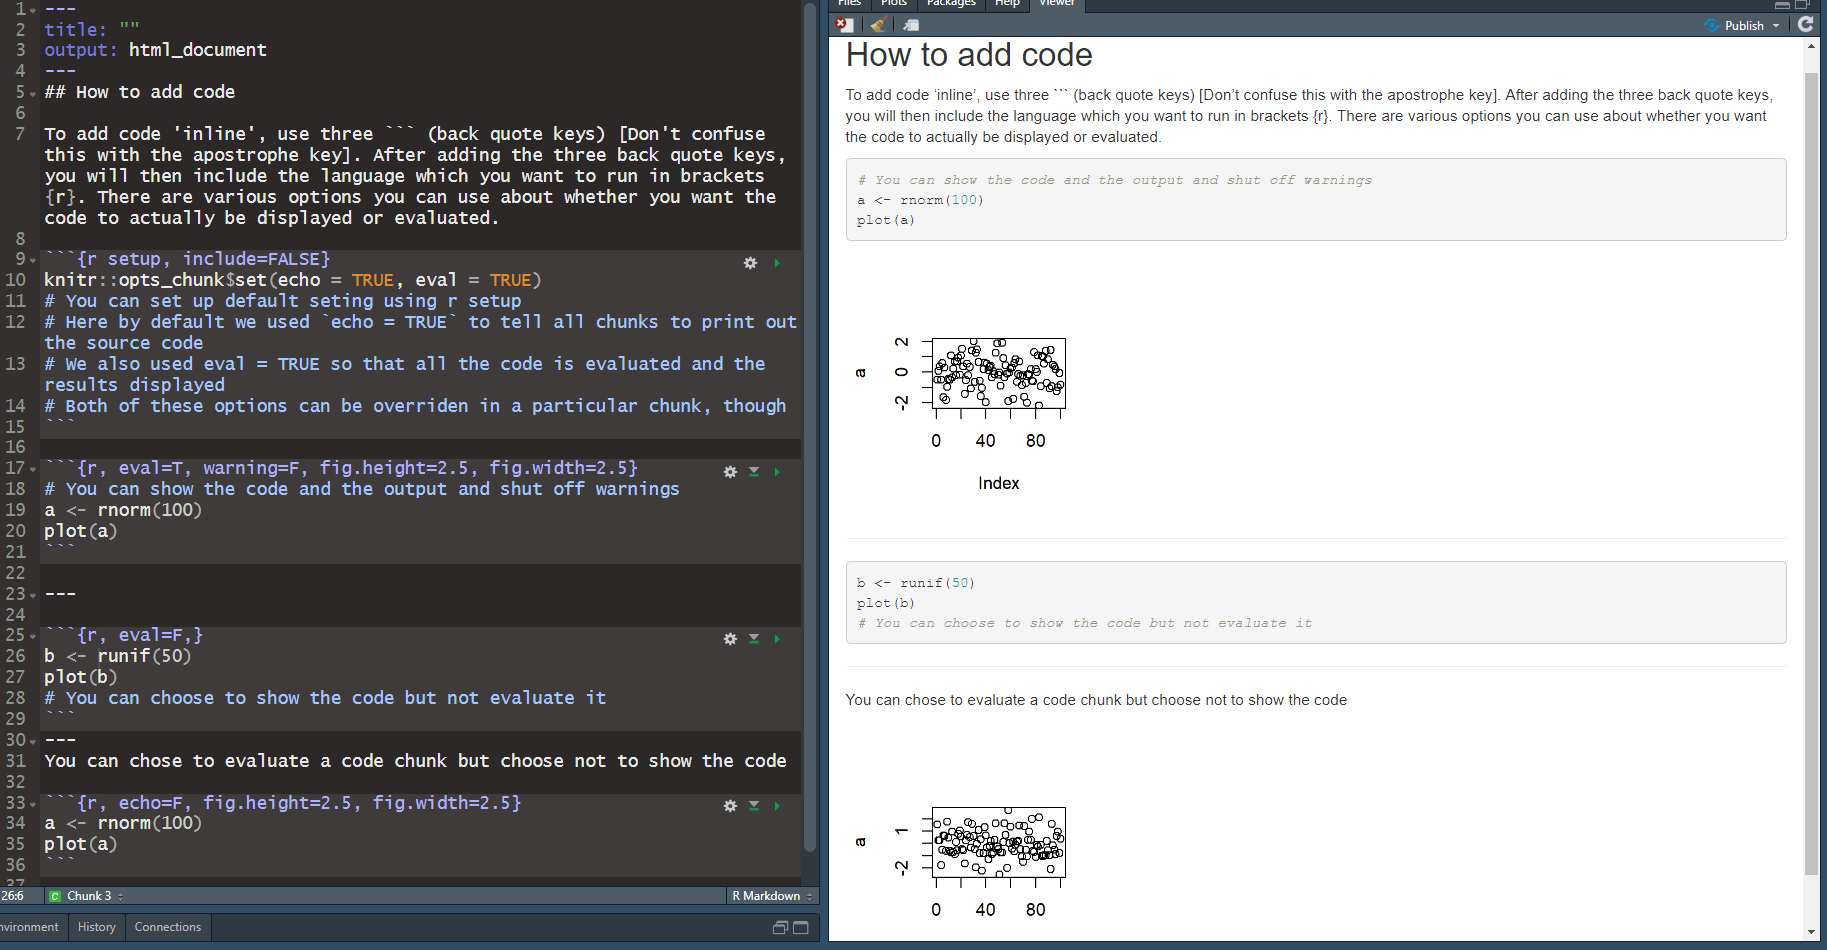
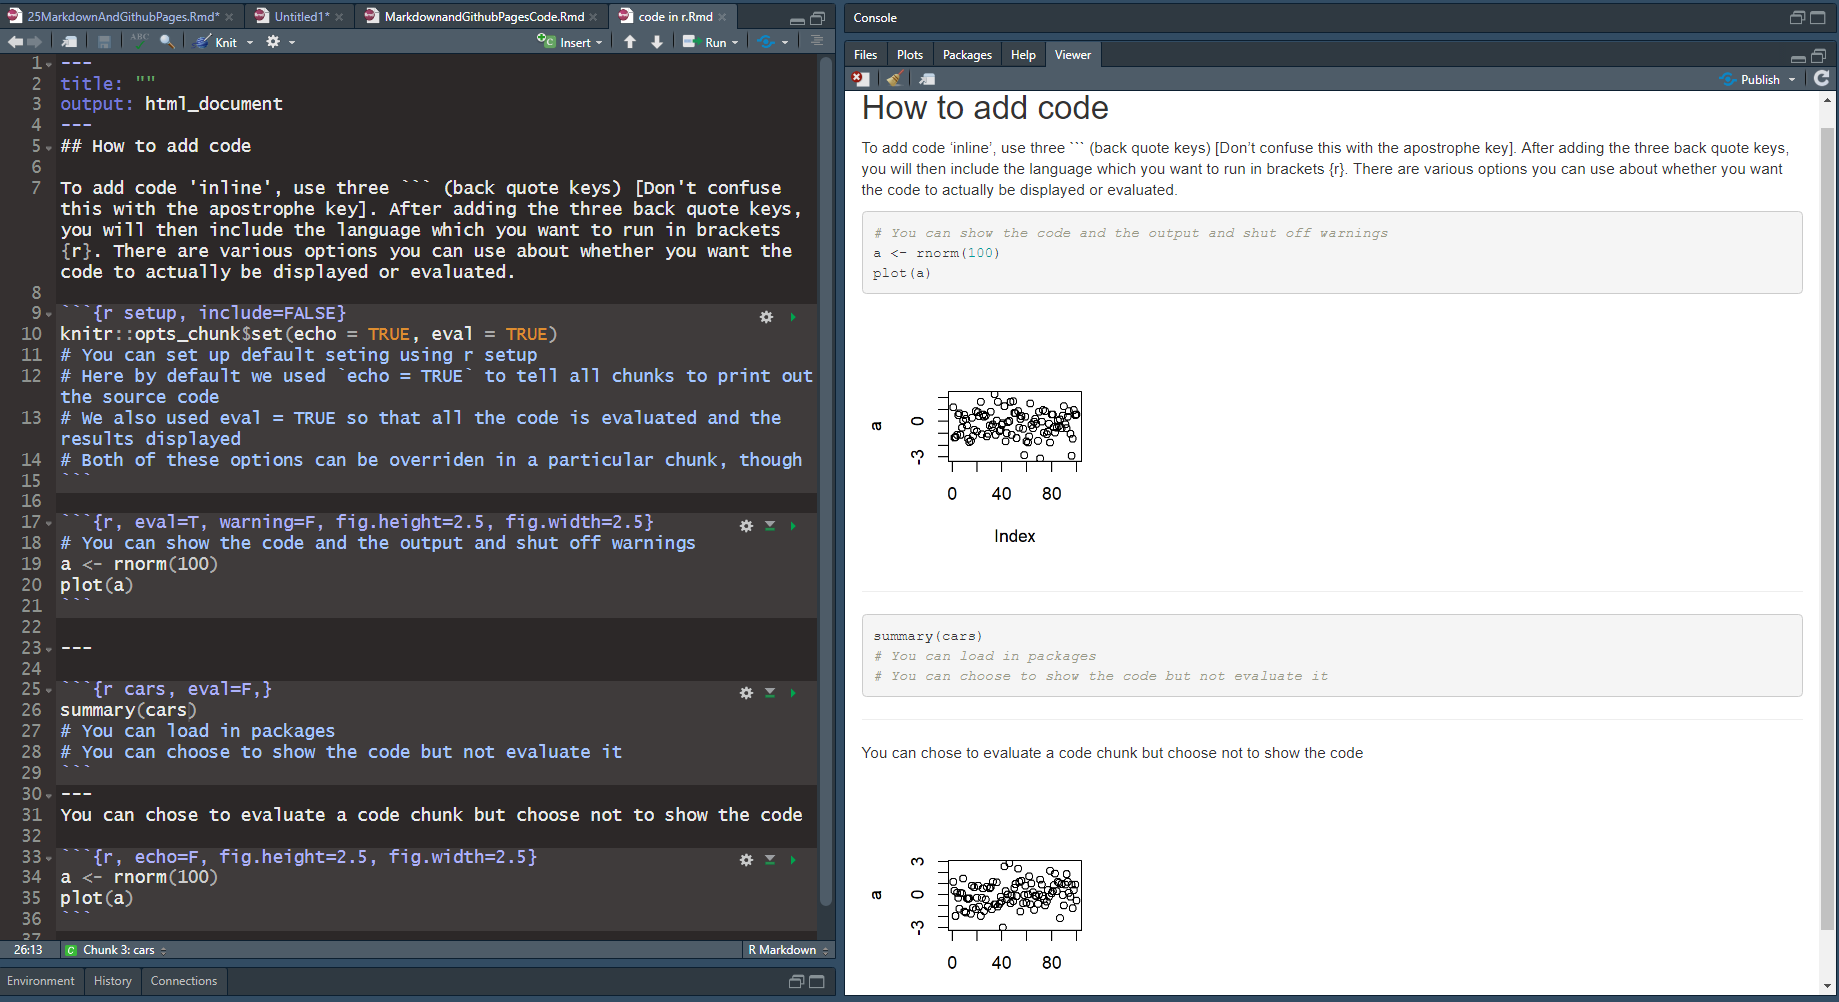
Editing markdown slides
changed location of photo

Changed region(s): [[0.0, 0.0, 1.0, 1.0], [0.4992, 0.3358, 0.5928, 0.5495]]

diff --git a/PDS/Slides/25MarkdownandGithubPages_files/code-in-r.html b/PDS/Slides/25MarkdownandGithubPages_files/code-in-r.html
@@ -371,14 +371,14 @@ summary {
 <pre class="r"><code># You can show the code and the output and shut off warnings
 a &lt;- rnorm(100)
 plot(a) </code></pre>
[2 lines of base64/hex data omitted]
 <hr />
-<pre class="r"><code>b &lt;- runif(50) 
-plot(b) 
+<pre class="r"><code>summary(cars)
+# You can load in packages 
 # You can choose to show the code but not evaluate it </code></pre>
 <hr />
 <p>You can chose to evaluate a code chunk but choose not to show the code</p>
[2 lines of base64/hex data omitted]
 </div>
 
 

diff --git a/PDS/Slides/25MarkdownAndGithubPages.html b/PDS/Slides/25MarkdownAndGithubPages.html
@@ -100,7 +100,10 @@ Next time
     - Images
     
     - Code chunk
-    
+---
+## Code for today
+
+You can find the code used in the slack channel for today.
 ---
 ## Headers
 
@@ -295,7 +298,14 @@ See?
 
 ![](./Images/add_code.png)
 
+- You can find this code in the slack channel for today
 ---
+
+# Activity
+
+- Open an R Markdown file in RStudio
+
+- Give the file the title 'Activity 1' and put your name as the author
     </textarea>
 <style data-target="print-only">@media screen {.remark-slide-container{display:block;}.remark-slide-scaler{box-shadow:none;}}</style>
 <script src="https://remarkjs.com/downloads/remark-latest.min.js"></script>
